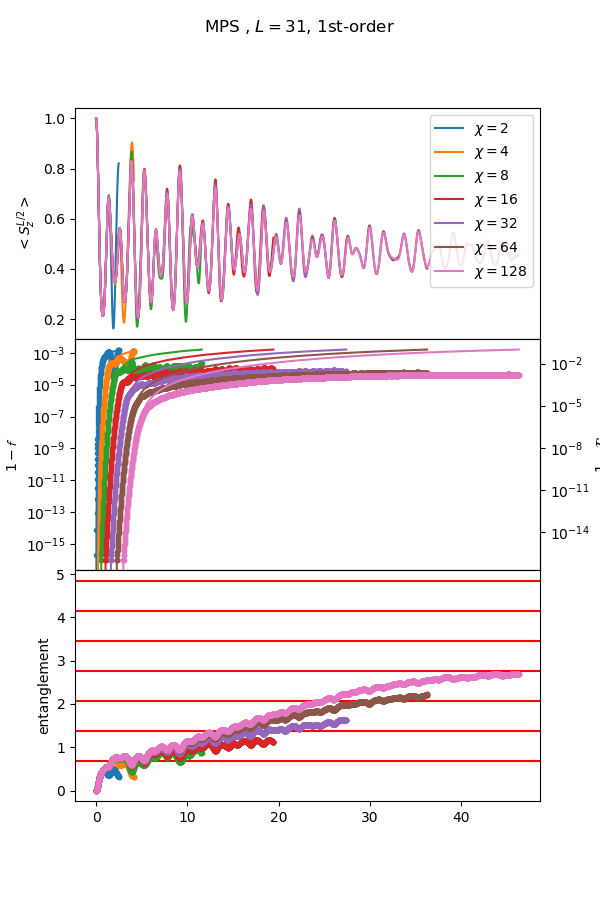
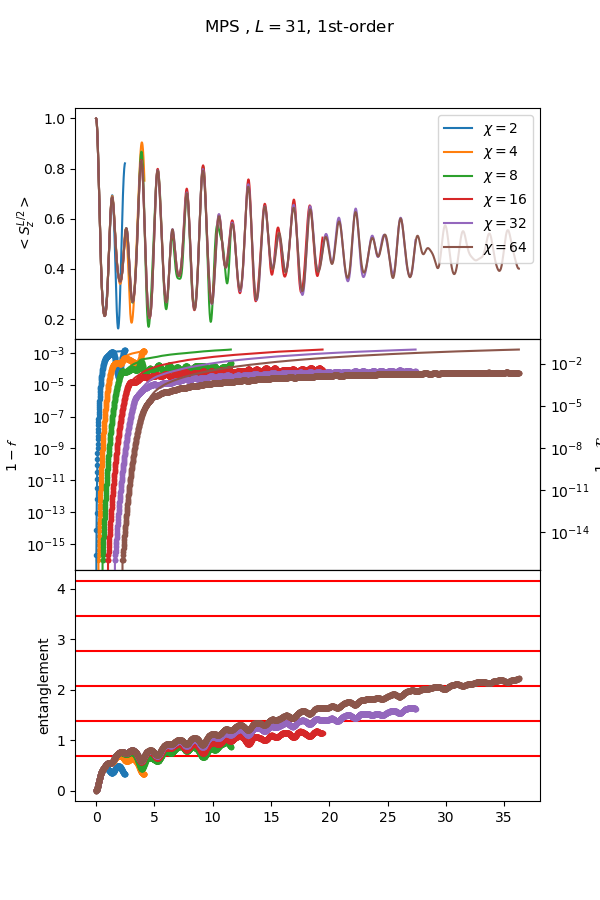
add plot

diff --git a/2_time_evolution/plot_te_tebd_mps.py b/2_time_evolution/plot_te_tebd_mps.py
@@ -27,7 +27,7 @@ if __name__ == '__main__':
     except:
         pass
 
-    for chi in [2,4,8,16,32,64,128]:
+    for chi in [2,4,8,16,32,64,]:
         dir_path = 'data_tebd/1d_%s_g%.4f_h%.4f/L%d/' % (Hamiltonian, g, h, L)
 
         filename = 'mps_chi%d_%s_energy.npy' % (chi, order)
@@ -67,7 +67,7 @@ if __name__ == '__main__':
 
 
     ax2_1 = ax2.twinx()
-    for chi in [2,4,8,16,32,64,128]:
+    for chi in [2,4,8,16,32,64,]:
         filename = 'mps_chi%d_%s_dt.npy' % (chi, order)
         path = dir_path + filename
         t_list = np.load(path)

diff --git a/3_approx_state/README.md b/3_approx_state/README.md
@@ -1,8 +1,12 @@
 
-### Circuit
+
+### Circuit approximating chi=32
 ![](g1.0.png)
 
-### MPS
+### MPS approximating chi=128
 ![](mps.png)
 
+
+### MPS tebd result
+![](../2_time_evolution/figure/time_evolv_TFI/tebd_mps_L31_g1.4000_h0.9045_1st.png)
 
